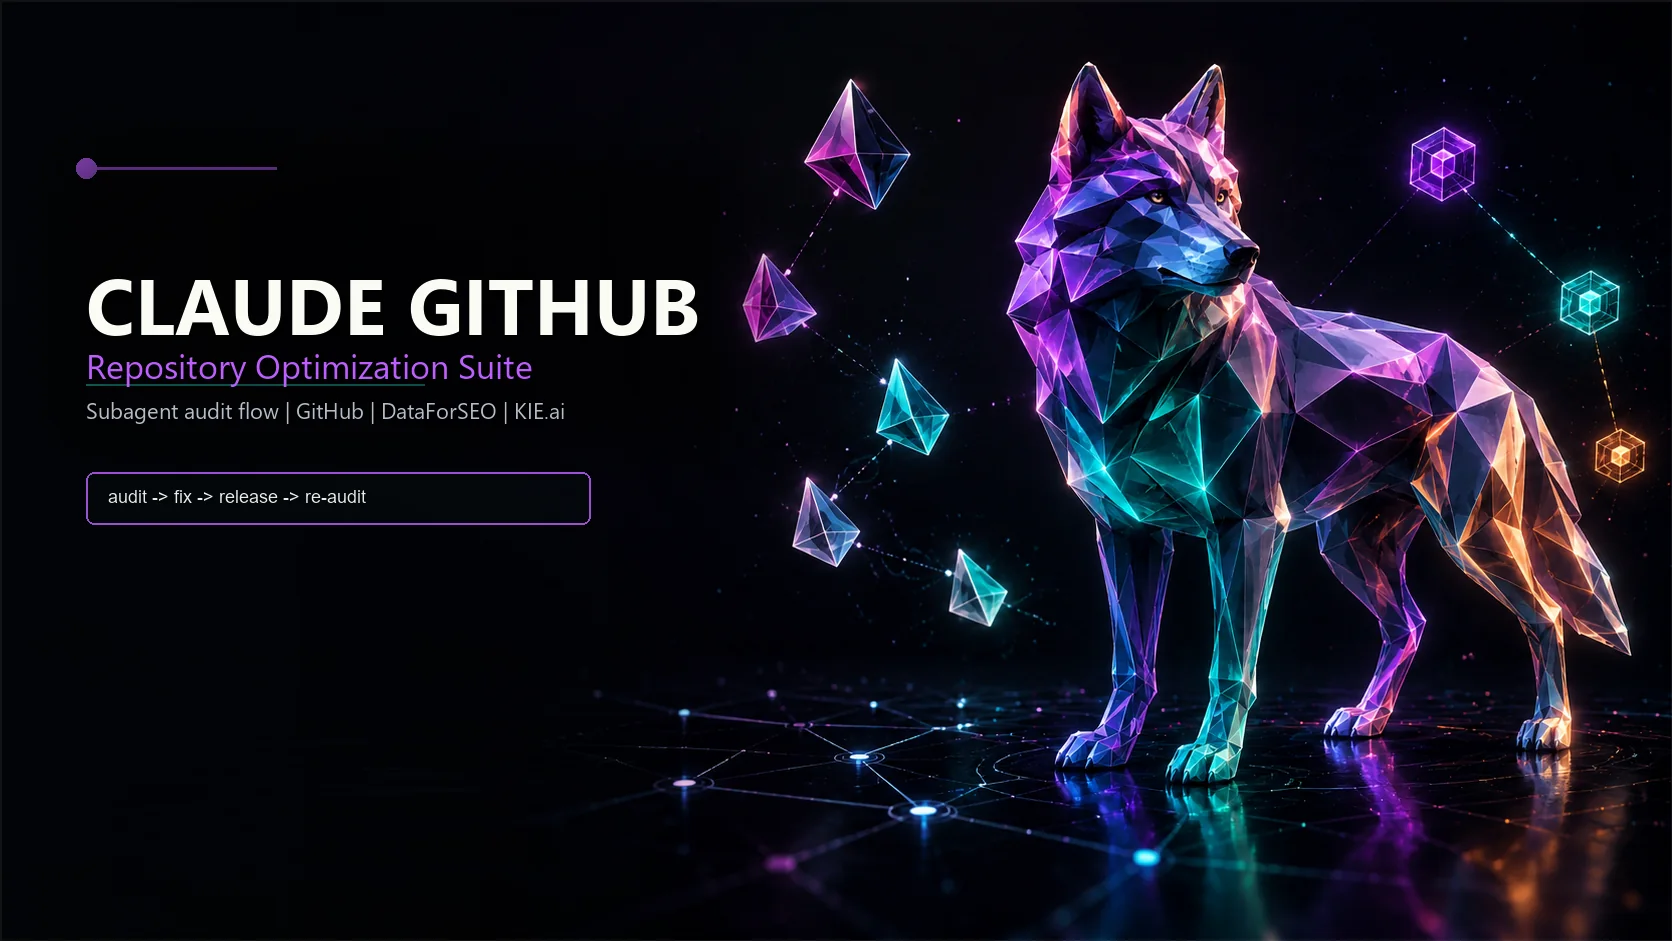
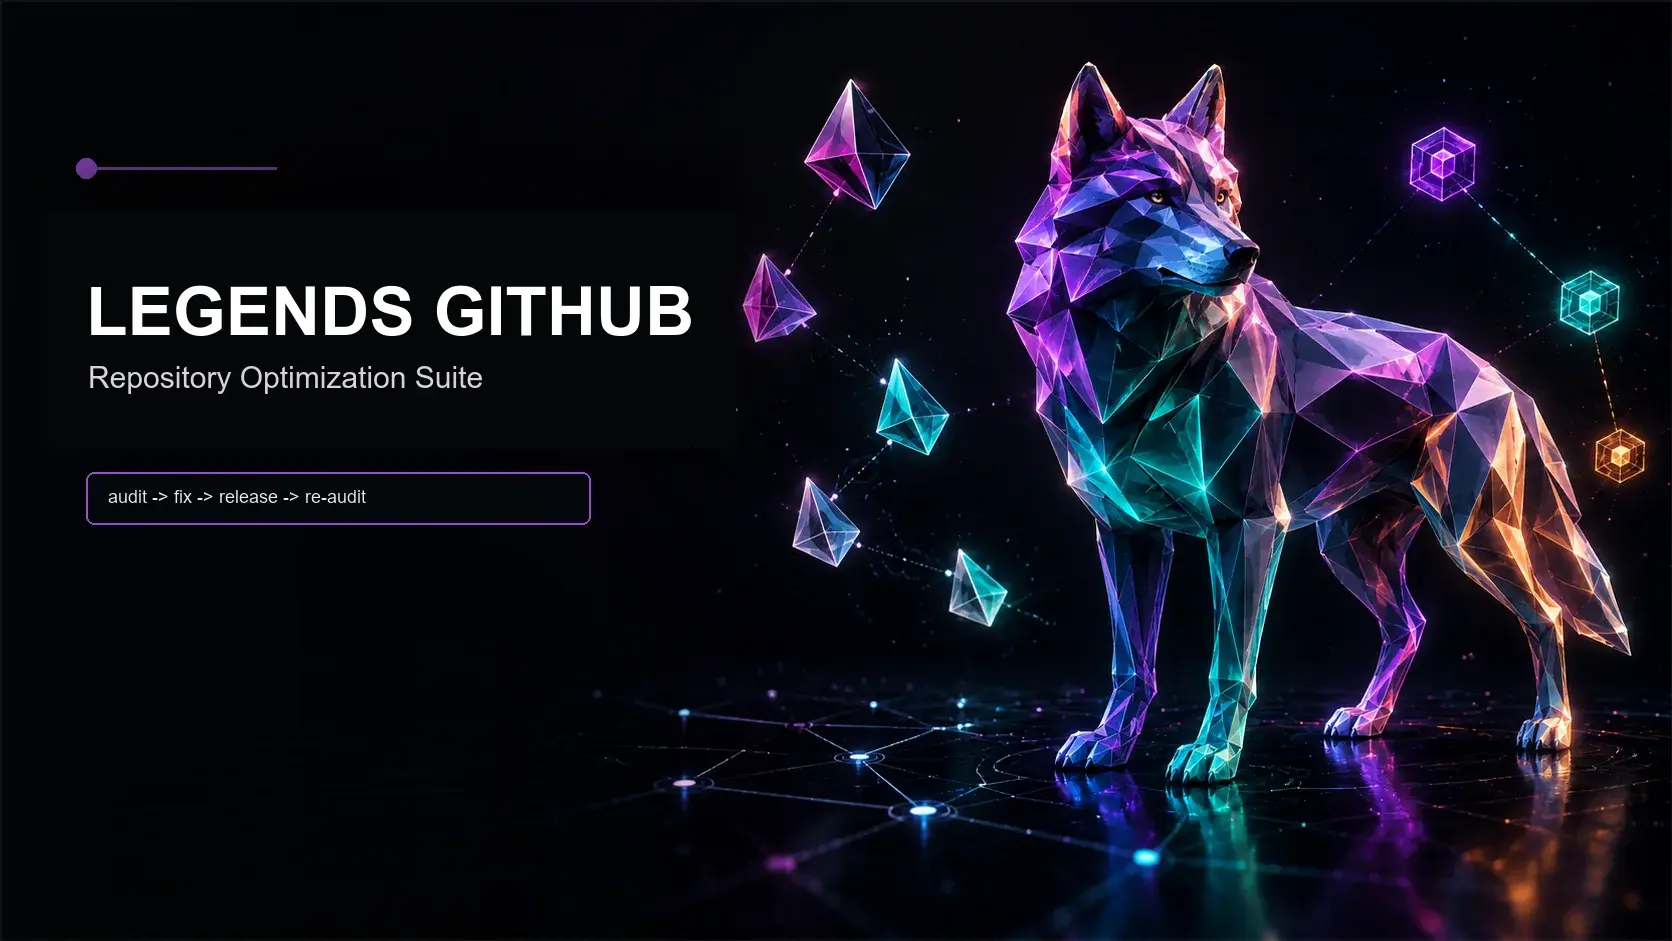
rebrand as Legends GitHub

Changed region(s): [[0.0311, 0.2774, 0.4354, 0.4623]]

diff --git a/github/scripts/validate_setup.py b/github/scripts/validate_setup.py
@@ -1,5 +1,5 @@
 #!/usr/bin/env python3
-"""Validate that Codex GitHub is ready for CLI, API, or both."""
+"""Validate that Legends GitHub is ready for CLI, API, or both."""
 
 from __future__ import annotations
 
@@ -23,7 +23,7 @@ def _check(label: str, passed: bool, detail: str = "") -> dict:
 
 
 def validate_setup(repo_root: Path, mode: str = "both", allow_missing_gh_auth: bool = False) -> dict:
-    """Validate Codex GitHub runtime readiness."""
+    """Validate Legends GitHub runtime readiness."""
     checks = []
     repo_slug = repo_slug_from_git(repo_root) or ""
     cache_dir, cache_writable = probe_repo_cache(repo_root)
@@ -117,14 +117,14 @@ def validate_setup(repo_root: Path, mode: str = "both", allow_missing_gh_auth: b
     )
     append_run_cache(
         operation="setup-validate",
-        summary=f"Validated Codex GitHub setup for {mode}",
+        summary=f"Validated Legends GitHub setup for {mode}",
         metadata={"passed": ready, "checks": len(checks), "repo_root": str(repo_root)},
     )
     return payload
 
 
 def main() -> int:
-    parser = argparse.ArgumentParser(description="Validate Codex GitHub for CLI or API execution")
+    parser = argparse.ArgumentParser(description="Validate Legends GitHub for CLI or API execution")
     parser.add_argument("--mode", default="both", choices=["cli", "api", "both"])
     parser.add_argument("--path", default=".", help="Repo root or a path inside the repo")
     parser.add_argument("--allow-missing-gh-auth", action="store_true")
@@ -136,7 +136,7 @@ def main() -> int:
     if args.json:
         print(json.dumps(payload, indent=2))
     else:
-        print("Codex GitHub Setup Validation")
+        print("Legends GitHub Setup Validation")
         print("=" * 40)
         for check in payload["checks"]:
             status = "PASS" if check["passed"] else "FAIL"

diff --git a/github/scripts/kie_assets.py b/github/scripts/kie_assets.py
@@ -46,7 +46,7 @@ def _kie_request(api_key: str, method: str, url: str, payload: dict[str, Any] | 
             "Authorization": f"Bearer {api_key}",
             "Content-Type": "application/json",
             "Accept": "application/json",
-            "User-Agent": "codex-github/1.0",
+            "User-Agent": "legends-github/1.0",
         },
     )
     try:
@@ -122,7 +122,7 @@ def result_url(record: dict[str, Any]) -> str:
 
 def download_binary(url: str, destination: Path) -> Path:
     """Download one binary asset to disk."""
-    request = Request(url, headers={"User-Agent": "codex-github/1.0"})
+    request = Request(url, headers={"User-Agent": "legends-github/1.0"})
     try:
         with urlopen(request, timeout=120) as response:
             destination.parent.mkdir(parents=True, exist_ok=True)

diff --git a/github/scripts/legal_repo.py b/github/scripts/legal_repo.py
@@ -1,5 +1,5 @@
 #!/usr/bin/env python3
-"""Deterministic legal planning for Codex GitHub."""
+"""Deterministic legal planning for Legends GitHub."""
 
 from __future__ import annotations
 
@@ -652,7 +652,7 @@ def fetch_remote_license_template(spdx_id: str, year: str, holder: str) -> tuple
     if not api_key:
         return "", f"No bundled or remote template is available for {spdx_id}."
     url = f"https://api.github.com/licenses/{api_key}"
-    request = urllib.request.Request(url, headers={"User-Agent": "codex-github-qa"})
+    request = urllib.request.Request(url, headers={"User-Agent": "legends-github-qa"})
     try:
         with urllib.request.urlopen(request, timeout=20) as response:
             payload = json.loads(response.read().decode("utf-8"))

diff --git a/github/scripts/community_repo.py b/github/scripts/community_repo.py
@@ -1,5 +1,5 @@
 #!/usr/bin/env python3
-"""Deterministic community-health planning for Codex GitHub."""
+"""Deterministic community-health planning for Legends GitHub."""
 
 from __future__ import annotations
 
@@ -623,7 +623,7 @@ def fetch_contributor_covenant() -> str:
             return result.stdout.strip()
     request = urllib.request.Request(
         "https://api.github.com/codes_of_conduct/contributor_covenant",
-        headers={"Accept": "application/vnd.github+json", "User-Agent": "codex-github-community-runner"},
+        headers={"Accept": "application/vnd.github+json", "User-Agent": "legends-github-community-runner"},
     )
     try:
         with urllib.request.urlopen(request, timeout=10) as response:

diff --git a/github/scripts/run_headless.py b/github/scripts/run_headless.py
@@ -1,5 +1,5 @@
 #!/usr/bin/env python3
-"""Deterministic headless entrypoint for Codex GitHub."""
+"""Deterministic headless entrypoint for Legends GitHub."""
 
 from __future__ import annotations
 
@@ -342,7 +342,7 @@ def run_empire_command(args: argparse.Namespace) -> dict:
 
 def build_parser() -> argparse.ArgumentParser:
     """Build the CLI parser."""
-    parser = argparse.ArgumentParser(description="Run Codex GitHub workflows non-interactively")
+    parser = argparse.ArgumentParser(description="Run Legends GitHub workflows non-interactively")
     sub = parser.add_subparsers(dest="command", required=True)
 
     verify = sub.add_parser("verify", help="Validate CLI/API readiness")

diff --git a/github/scripts/runtime_paths.py b/github/scripts/runtime_paths.py
@@ -1,5 +1,5 @@
 #!/usr/bin/env python3
-"""Shared runtime path resolution for Codex GitHub."""
+"""Shared runtime path resolution for Legends GitHub."""
 
 from __future__ import annotations
 
@@ -38,8 +38,11 @@ def codex_agents_dir() -> Path:
 
 
 def github_home() -> Path:
-    """Return the global Codex GitHub runtime directory."""
-    return _env_path("CODEX_GITHUB_HOME", home_dir() / ".codex-github")
+    """Return the global Legends GitHub runtime directory."""
+    return _env_path(
+        "LEGENDS_GITHUB_HOME",
+        _env_path("CODEX_GITHUB_HOME", home_dir() / ".legends-github"),
+    )
 
 
 def github_runs_cache() -> Path:

diff --git a/github/scripts/setup_dataforseo.py b/github/scripts/setup_dataforseo.py
@@ -1,5 +1,5 @@
 #!/usr/bin/env python3
-"""Configure the DataForSEO MCP server for Codex GitHub."""
+"""Configure the DataForSEO MCP server for Legends GitHub."""
 
 from __future__ import annotations
 
@@ -131,7 +131,7 @@ def remove() -> dict:
 
 
 def main() -> int:
-    parser = argparse.ArgumentParser(description="Configure DataForSEO MCP for Codex GitHub")
+    parser = argparse.ArgumentParser(description="Configure DataForSEO MCP for Legends GitHub")
     parser.add_argument("--login")
     parser.add_argument("--password")
     parser.add_argument("--check", action="store_true")

diff --git a/github/scripts/audit_repo.py b/github/scripts/audit_repo.py
@@ -1,5 +1,5 @@
 #!/usr/bin/env python3
-"""Deterministic repository audit helpers for Codex GitHub."""
+"""Deterministic repository audit helpers for Legends GitHub."""
 
 from __future__ import annotations
 

diff --git a/github/scripts/github_runtime.py b/github/scripts/github_runtime.py
@@ -1,5 +1,5 @@
 #!/usr/bin/env python3
-"""Runtime helpers for Codex GitHub headless workflows."""
+"""Runtime helpers for Legends GitHub headless workflows."""
 
 from __future__ import annotations
 

diff --git a/github/scripts/seo_repo.py b/github/scripts/seo_repo.py
@@ -1,5 +1,5 @@
 #!/usr/bin/env python3
-"""Deterministic SEO cache generation for Codex GitHub."""
+"""Deterministic SEO cache generation for Legends GitHub."""
 
 from __future__ import annotations
 

diff --git a/github/scripts/empire_repo.py b/github/scripts/empire_repo.py
@@ -1,5 +1,5 @@
 #!/usr/bin/env python3
-"""Deterministic portfolio planning for Codex GitHub."""
+"""Deterministic portfolio planning for Legends GitHub."""
 
 from __future__ import annotations
 

diff --git a/github/scripts/meta_repo.py b/github/scripts/meta_repo.py
@@ -1,5 +1,5 @@
 #!/usr/bin/env python3
-"""Deterministic metadata planning for Codex GitHub."""
+"""Deterministic metadata planning for Legends GitHub."""
 
 from __future__ import annotations
 
